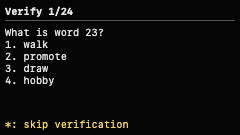
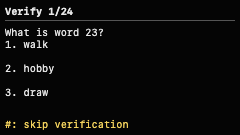
Simplify mnemonic verification quiz

diff --git a/simulator/mnemonic_wasm.js b/simulator/mnemonic_wasm.js
@@ -1,2 +1,2 @@
-async function Module(moduleArg={}){var Module=moduleArg;var ENVIRONMENT_IS_WEB=!!globalThis.window;var ENVIRONMENT_IS_WORKER=!!globalThis.WorkerGlobalScope;var ENVIRONMENT_IS_NODE=globalThis.process?.versions?.node&&globalThis.process?.type!="renderer";if(ENVIRONMENT_IS_NODE){const{createRequire}=await import("node:module");var require=createRequire(import.meta.url)}var programArgs=[];var thisProgram="./this.program";var quit_=(status,toThrow)=>{throw toThrow};var _scriptName=import.meta.url;var scriptDirectory="";function locateFile(path){if(Module["locateFile"]){return Module["locateFile"](path,scriptDirectory)}return scriptDirectory+path}var readAsync,readBinary;if(ENVIRONMENT_IS_NODE){var fs=require("node:fs");if(_scriptName.startsWith("file:")){scriptDirectory=require("node:path").dirname(require("node:url").fileURLToPath(_scriptName))+"/"}readBinary=filename=>{filename=isFileURI(filename)?new URL(filename):filename;var ret=fs.readFileSync(filename);return ret};readAsync=async(filename,binary=true)=>{filename=isFileURI(filename)?new URL(filename):filename;var ret=fs.readFileSync(filename,binary?undefined:"utf8");return ret};if(process.argv.length>1){thisProgram=process.argv[1].replace(/\\/g,"/")}programArgs=process.argv.slice(2);quit_=(status,toThrow)=>{process.exitCode=status;throw toThrow}}else if(ENVIRONMENT_IS_WEB||ENVIRONMENT_IS_WORKER){try{scriptDirectory=new URL(".",_scriptName).href}catch{}{readAsync=async url=>{var response=await fetch(url,{credentials:"same-origin"});if(response.ok){return response.arrayBuffer()}throw new Error(response.status+" : "+response.url)}}}else{}var out=console.log.bind(console);var err=console.error.bind(console);var wasmBinary;var ABORT=false;var isFileURI=filename=>filename.startsWith("file://");class EmscriptenEH{}class EmscriptenSjLj extends EmscriptenEH{}var runtimeInitialized=false;function updateMemoryViews(){var b=wasmMemory.buffer;Module["HEAPU8"]=HEAPU8=new Uint8Array(b);Module["HEAPU16"]=HEAPU16=new Uint16Array(b)}function preRun(){var preRun=Module["preRun"];if(preRun){if(typeof preRun=="function")preRun=[preRun];onPreRuns.push(...preRun)}callRuntimeCallbacks(onPreRuns)}function initRuntime(){runtimeInitialized=true;wasmExports["c"]()}function postRun(){var postRun=Module["postRun"];if(postRun){if(typeof postRun=="function")postRun=[postRun];onPostRuns.push(...postRun)}callRuntimeCallbacks(onPostRuns)}function abort(what){Module["onAbort"]?.(what);what=`Aborted(${what})`;err(what);ABORT=true;what+=". Build with -sASSERTIONS for more info.";var e=new WebAssembly.RuntimeError(what);throw e}var wasmBinaryFile;function findWasmBinary(){if(Module["locateFile"]){return locateFile("mnemonic_wasm.wasm")}return new URL("mnemonic_wasm.wasm",import.meta.url).href}function getBinarySync(file){if(readBinary){return readBinary(file)}throw"both async and sync fetching of the wasm failed"}async function getWasmBinary(binaryFile){if(!wasmBinary){try{var response=await readAsync(binaryFile);return new Uint8Array(response)}catch{}}return getBinarySync(binaryFile)}async function instantiateArrayBuffer(binaryFile,imports){try{var binary=await getWasmBinary(binaryFile);var instance=await WebAssembly.instantiate(binary,imports);return instance}catch(reason){err(`failed to asynchronously prepare wasm: ${reason}`);abort(reason)}}async function instantiateAsync(binary,binaryFile,imports){if(!binary&&!ENVIRONMENT_IS_NODE){try{var response=fetch(binaryFile,{credentials:"same-origin"});var instantiationResult=await WebAssembly.instantiateStreaming(response,imports);return instantiationResult}catch(reason){err(`wasm streaming compile failed: ${reason}`);err("falling back to ArrayBuffer instantiation")}}return instantiateArrayBuffer(binaryFile,imports)}function getWasmImports(){var imports={a:wasmImports};return imports}async function createWasm(){function receiveInstance(instance){wasmExports=instance.exports;assignWasmExports(wasmExports);updateMemoryViews();return wasmExports}function receiveInstantiationResult(result){return receiveInstance(result["instance"])}var info=getWasmImports();var instantiateWasm=Module["instantiateWasm"];if(instantiateWasm){return new Promise(resolve=>{instantiateWasm(info,inst=>resolve(receiveInstance(inst)))})}wasmBinaryFile??=findWasmBinary();var result=await instantiateAsync(wasmBinary,wasmBinaryFile,info);var exports=receiveInstantiationResult(result);return exports}class ExitStatus{name="ExitStatus";constructor(status){this.message=`Program terminated with exit(${status})`;this.status=status}}var callRuntimeCallbacks=callbacks=>{while(callbacks.length>0){callbacks.shift()(Module)}};var onPostRuns=[];var onPreRuns=[];var noExitRuntime=true;var abortOnCannotGrowMemory=requestedSize=>{abort("OOM")};var HEAPU8;var _emscripten_resize_heap=requestedSize=>{var oldSize=HEAPU8.length;requestedSize>>>=0;abortOnCannotGrowMemory(requestedSize)};var HEAPU16;{if(Module["noExitRuntime"])noExitRuntime=Module["noExitRuntime"];if(Module["print"])out=Module["print"];if(Module["printErr"])err=Module["printErr"];if(Module["arguments"])programArgs=Module["arguments"];if(Module["thisProgram"])thisProgram=Module["thisProgram"];var preInit=Module["preInit"];if(preInit){if(typeof preInit=="function")Module["preInit"]=preInit=[preInit];while(preInit.length>0){preInit.shift()()}}}var _generate_mnemonic_indexes,_mnemonic_word,_session_press,_session_reset,_session_screen,_session_required_rolls,_session_roll_count,_session_roll_at,_session_word_count,_session_word_index_at,_session_page,_session_quiz_position,_session_quiz_word_number,_session_quiz_choice_at,_session_quiz_incorrect,_session_verified,_malloc,_free,memory,__indirect_function_table,wasmMemory;function assignWasmExports(wasmExports){_generate_mnemonic_indexes=Module["_generate_mnemonic_indexes"]=wasmExports["d"];_mnemonic_word=Module["_mnemonic_word"]=wasmExports["e"];_session_press=Module["_session_press"]=wasmExports["f"];_session_reset=Module["_session_reset"]=wasmExports["g"];_session_screen=Module["_session_screen"]=wasmExports["h"];_session_required_rolls=Module["_session_required_rolls"]=wasmExports["i"];_session_roll_count=Module["_session_roll_count"]=wasmExports["j"];_session_roll_at=Module["_session_roll_at"]=wasmExports["k"];_session_word_count=Module["_session_word_count"]=wasmExports["l"];_session_word_index_at=Module["_session_word_index_at"]=wasmExports["m"];_session_page=Module["_session_page"]=wasmExports["n"];_session_quiz_position=Module["_session_quiz_position"]=wasmExports["o"];_session_quiz_word_number=Module["_session_quiz_word_number"]=wasmExports["p"];_session_quiz_choice_at=Module["_session_quiz_choice_at"]=wasmExports["q"];_session_quiz_incorrect=Module["_session_quiz_incorrect"]=wasmExports["r"];_session_verified=Module["_session_verified"]=wasmExports["s"];_malloc=Module["_malloc"]=wasmExports["t"];_free=Module["_free"]=wasmExports["u"];memory=wasmMemory=wasmExports["b"];__indirect_function_table=wasmExports["__indirect_function_table"]}var wasmImports={a:_emscripten_resize_heap};async function run(){preRun();var setStatus=Module["setStatus"];if(setStatus){setStatus("Running...");await new Promise(resolve=>setTimeout(resolve,1));setTimeout(setStatus,1,"")}if(ABORT)return;initRuntime();Module["onRuntimeInitialized"]?.();postRun()}var wasmExports;wasmExports=await createWasm();await run();
+async function Module(moduleArg={}){var Module=moduleArg;var ENVIRONMENT_IS_WEB=!!globalThis.window;var ENVIRONMENT_IS_WORKER=!!globalThis.WorkerGlobalScope;var ENVIRONMENT_IS_NODE=globalThis.process?.versions?.node&&globalThis.process?.type!="renderer";if(ENVIRONMENT_IS_NODE){const{createRequire}=await import("node:module");var require=createRequire(import.meta.url)}var programArgs=[];var thisProgram="./this.program";var quit_=(status,toThrow)=>{throw toThrow};var _scriptName=import.meta.url;var scriptDirectory="";function locateFile(path){if(Module["locateFile"]){return Module["locateFile"](path,scriptDirectory)}return scriptDirectory+path}var readAsync,readBinary;if(ENVIRONMENT_IS_NODE){var fs=require("node:fs");if(_scriptName.startsWith("file:")){scriptDirectory=require("node:path").dirname(require("node:url").fileURLToPath(_scriptName))+"/"}readBinary=filename=>{filename=isFileURI(filename)?new URL(filename):filename;var ret=fs.readFileSync(filename);return ret};readAsync=async(filename,binary=true)=>{filename=isFileURI(filename)?new URL(filename):filename;var ret=fs.readFileSync(filename,binary?undefined:"utf8");return ret};if(process.argv.length>1){thisProgram=process.argv[1].replace(/\\/g,"/")}programArgs=process.argv.slice(2);quit_=(status,toThrow)=>{process.exitCode=status;throw toThrow}}else if(ENVIRONMENT_IS_WEB||ENVIRONMENT_IS_WORKER){try{scriptDirectory=new URL(".",_scriptName).href}catch{}{readAsync=async url=>{var response=await fetch(url,{credentials:"same-origin"});if(response.ok){return response.arrayBuffer()}throw new Error(response.status+" : "+response.url)}}}else{}var out=console.log.bind(console);var err=console.error.bind(console);var wasmBinary;var ABORT=false;var isFileURI=filename=>filename.startsWith("file://");class EmscriptenEH{}class EmscriptenSjLj extends EmscriptenEH{}var runtimeInitialized=false;function updateMemoryViews(){var b=wasmMemory.buffer;Module["HEAPU8"]=HEAPU8=new Uint8Array(b);Module["HEAPU16"]=HEAPU16=new Uint16Array(b)}function preRun(){var preRun=Module["preRun"];if(preRun){if(typeof preRun=="function")preRun=[preRun];onPreRuns.push(...preRun)}callRuntimeCallbacks(onPreRuns)}function initRuntime(){runtimeInitialized=true;wasmExports["c"]()}function postRun(){var postRun=Module["postRun"];if(postRun){if(typeof postRun=="function")postRun=[postRun];onPostRuns.push(...postRun)}callRuntimeCallbacks(onPostRuns)}function abort(what){Module["onAbort"]?.(what);what=`Aborted(${what})`;err(what);ABORT=true;what+=". Build with -sASSERTIONS for more info.";var e=new WebAssembly.RuntimeError(what);throw e}var wasmBinaryFile;function findWasmBinary(){if(Module["locateFile"]){return locateFile("mnemonic_wasm.wasm")}return new URL("mnemonic_wasm.wasm",import.meta.url).href}function getBinarySync(file){if(readBinary){return readBinary(file)}throw"both async and sync fetching of the wasm failed"}async function getWasmBinary(binaryFile){if(!wasmBinary){try{var response=await readAsync(binaryFile);return new Uint8Array(response)}catch{}}return getBinarySync(binaryFile)}async function instantiateArrayBuffer(binaryFile,imports){try{var binary=await getWasmBinary(binaryFile);var instance=await WebAssembly.instantiate(binary,imports);return instance}catch(reason){err(`failed to asynchronously prepare wasm: ${reason}`);abort(reason)}}async function instantiateAsync(binary,binaryFile,imports){if(!binary&&!ENVIRONMENT_IS_NODE){try{var response=fetch(binaryFile,{credentials:"same-origin"});var instantiationResult=await WebAssembly.instantiateStreaming(response,imports);return instantiationResult}catch(reason){err(`wasm streaming compile failed: ${reason}`);err("falling back to ArrayBuffer instantiation")}}return instantiateArrayBuffer(binaryFile,imports)}function getWasmImports(){var imports={a:wasmImports};return imports}async function createWasm(){function receiveInstance(instance){wasmExports=instance.exports;assignWasmExports(wasmExports);updateMemoryViews();return wasmExports}function receiveInstantiationResult(result){return receiveInstance(result["instance"])}var info=getWasmImports();var instantiateWasm=Module["instantiateWasm"];if(instantiateWasm){return new Promise(resolve=>{instantiateWasm(info,inst=>resolve(receiveInstance(inst)))})}wasmBinaryFile??=findWasmBinary();var result=await instantiateAsync(wasmBinary,wasmBinaryFile,info);var exports=receiveInstantiationResult(result);return exports}class ExitStatus{name="ExitStatus";constructor(status){this.message=`Program terminated with exit(${status})`;this.status=status}}var callRuntimeCallbacks=callbacks=>{while(callbacks.length>0){callbacks.shift()(Module)}};var onPostRuns=[];var onPreRuns=[];var noExitRuntime=true;var abortOnCannotGrowMemory=requestedSize=>{abort("OOM")};var HEAPU8;var _emscripten_resize_heap=requestedSize=>{var oldSize=HEAPU8.length;requestedSize>>>=0;abortOnCannotGrowMemory(requestedSize)};var HEAPU16;{if(Module["noExitRuntime"])noExitRuntime=Module["noExitRuntime"];if(Module["print"])out=Module["print"];if(Module["printErr"])err=Module["printErr"];if(Module["arguments"])programArgs=Module["arguments"];if(Module["thisProgram"])thisProgram=Module["thisProgram"];var preInit=Module["preInit"];if(preInit){if(typeof preInit=="function")Module["preInit"]=preInit=[preInit];while(preInit.length>0){preInit.shift()()}}}var _generate_mnemonic_indexes,_mnemonic_word,_session_press,_session_reset,_session_screen,_session_required_rolls,_session_roll_count,_session_roll_at,_session_word_count,_session_word_index_at,_session_page,_session_quiz_position,_session_quiz_word_number,_session_quiz_choice_at,_session_quiz_incorrect,_session_quiz_incorrect_choice,_session_verified,_malloc,_free,memory,__indirect_function_table,wasmMemory;function assignWasmExports(wasmExports){_generate_mnemonic_indexes=Module["_generate_mnemonic_indexes"]=wasmExports["d"];_mnemonic_word=Module["_mnemonic_word"]=wasmExports["e"];_session_press=Module["_session_press"]=wasmExports["f"];_session_reset=Module["_session_reset"]=wasmExports["g"];_session_screen=Module["_session_screen"]=wasmExports["h"];_session_required_rolls=Module["_session_required_rolls"]=wasmExports["i"];_session_roll_count=Module["_session_roll_count"]=wasmExports["j"];_session_roll_at=Module["_session_roll_at"]=wasmExports["k"];_session_word_count=Module["_session_word_count"]=wasmExports["l"];_session_word_index_at=Module["_session_word_index_at"]=wasmExports["m"];_session_page=Module["_session_page"]=wasmExports["n"];_session_quiz_position=Module["_session_quiz_position"]=wasmExports["o"];_session_quiz_word_number=Module["_session_quiz_word_number"]=wasmExports["p"];_session_quiz_choice_at=Module["_session_quiz_choice_at"]=wasmExports["q"];_session_quiz_incorrect=Module["_session_quiz_incorrect"]=wasmExports["r"];_session_quiz_incorrect_choice=Module["_session_quiz_incorrect_choice"]=wasmExports["s"];_session_verified=Module["_session_verified"]=wasmExports["t"];_malloc=Module["_malloc"]=wasmExports["u"];_free=Module["_free"]=wasmExports["v"];memory=wasmMemory=wasmExports["b"];__indirect_function_table=wasmExports["__indirect_function_table"]}var wasmImports={a:_emscripten_resize_heap};async function run(){preRun();var setStatus=Module["setStatus"];if(setStatus){setStatus("Running...");await new Promise(resolve=>setTimeout(resolve,1));setTimeout(setStatus,1,"")}if(ABORT)return;initRuntime();Module["onRuntimeInitialized"]?.();postRun()}var wasmExports;wasmExports=await createWasm();await run();
 ;return Module}export default Module;

diff --git a/simulator/index.html b/simulator/index.html
@@ -87,10 +87,9 @@
       } else if (wasm._session_screen() === 4) {
         screen.innerHTML = `<div class="title">Verify backup?</div><div>Check every written word</div><div class="yellow footer"><span>*: skip</span><span>#: start quiz</span></div>`;
       } else if (wasm._session_screen() === 5) {
-        const choices = Array.from({length: 4}, (_, i) => `${i + 1}. ${wordFromIndex(wasm._session_quiz_choice_at(i))}`).join("<br>");
-        const incorrect = wasm._session_quiz_incorrect();
-        const quizFooter = incorrect ? `<span style="color:#ff6b6b">Incorrect. Try again.</span><span>*: skip</span>` : "*: skip verification";
-        screen.innerHTML = `<div class="title">Verify ${wasm._session_quiz_position() + 1}/${wasm._session_word_count()}</div><div>What is word ${wasm._session_quiz_word_number()}?</div>${choices}<div class="yellow footer">${quizFooter}</div>`;
+        const incorrectChoice = wasm._session_quiz_incorrect_choice();
+        const choices = Array.from({length: 3}, (_, i) => `<span style="color:${i === incorrectChoice ? "#ff6b6b" : "#e7e7e7"}">${i + 1}. ${wordFromIndex(wasm._session_quiz_choice_at(i))}${i === incorrectChoice ? "  incorrect" : ""}</span>`).join("<br>");
+        screen.innerHTML = `<div class="title">Verify ${wasm._session_quiz_position() + 1}/${wasm._session_word_count()}</div><div>What is word ${wasm._session_quiz_word_number()}?</div>${choices}<div class="yellow footer">#: skip verification</div>`;
       } else if (wasm._session_screen() === 6) {
         screen.innerHTML = `<div class="title">Skip verification?</div><div class="yellow">Your backup is untested.</div><div class="footer"><span>*: resume</span><span>#: skip</span></div>`;
       } else {

diff --git a/src/session.h b/src/session.h
@@ -63,17 +63,19 @@ class Session {
         }
         break;
       case SessionScreen::Quiz:
-        if (key >= '1' && key <= '4') {
+        if (key >= '1' && key <= '3') {
           if (quizChoices_[key - '1'] == wordIndexes_[quizOrder_[quizPosition_]]) {
             if (++quizPosition_ == wordCount_) finish(true);
             else {
               quizIncorrect_ = false;
+              quizIncorrectChoice_ = 3;
               prepareQuizChoices();
             }
           } else {
             quizIncorrect_ = true;
+            quizIncorrectChoice_ = static_cast<size_t>(key - '1');
           }
-        } else if (key == '*') {
+        } else if (key == '#') {
           skipReturnScreen_ = SessionScreen::Quiz;
           screen_ = SessionScreen::ConfirmSkipQuiz;
         }
@@ -98,8 +100,9 @@ class Session {
   size_t page() const { return page_; }
   size_t quizPosition() const { return quizPosition_; }
   size_t quizWordNumber() const { return quizPosition_ < wordCount_ ? quizOrder_[quizPosition_] + 1 : 0; }
-  uint16_t quizChoiceAt(size_t index) const { return index < 4 ? quizChoices_[index] : 0; }
+  uint16_t quizChoiceAt(size_t index) const { return index < 3 ? quizChoices_[index] : 0; }
   bool quizIncorrect() const { return quizIncorrect_; }
+  size_t quizIncorrectChoice() const { return quizIncorrectChoice_; }
   bool verified() const { return verified_; }
 
  private:
@@ -126,11 +129,12 @@ class Session {
     }
     quizPosition_ = 0;
     quizIncorrect_ = false;
+    quizIncorrectChoice_ = 3;
   }
 
   void prepareQuizChoices() {
     quizChoices_[0] = wordIndexes_[quizOrder_[quizPosition_]];
-    for (size_t choice = 1; choice < 4; ++choice) {
+    for (size_t choice = 1; choice < 3; ++choice) {
       uint16_t candidate;
       bool duplicate;
       do {
@@ -142,7 +146,7 @@ class Session {
       } while (duplicate);
       quizChoices_[choice] = candidate;
     }
-    for (size_t i = 3; i > 0; --i) {
+    for (size_t i = 2; i > 0; --i) {
       const size_t swapWith = nextQuizValue() % (i + 1);
       const uint16_t temporary = quizChoices_[i];
       quizChoices_[i] = quizChoices_[swapWith];
@@ -172,6 +176,7 @@ class Session {
     rollCount_ = requiredRolls_ = wordCount_ = page_ = quizPosition_ = 0;
     quizRandomState_ = 0;
     quizIncorrect_ = verified_ = false;
+    quizIncorrectChoice_ = 3;
   }
 
   SessionScreen screen_;
@@ -181,8 +186,9 @@ class Session {
   uint16_t wordIndexes_[24];
   size_t wordCount_, page_;
   size_t quizOrder_[24];
-  uint16_t quizChoices_[4];
+  uint16_t quizChoices_[3];
   size_t quizPosition_;
   uint32_t quizRandomState_;
   bool quizIncorrect_, verified_;
+  size_t quizIncorrectChoice_;
 };

diff --git a/tests/test_session.cpp b/tests/test_session.cpp
@@ -48,18 +48,18 @@ int main() {
 
   const uint16_t answer = session.wordIndexAt(session.quizWordNumber() - 1);
   size_t answerChoices = 0;
-  for (size_t i = 0; i < 4; ++i) answerChoices += session.quizChoiceAt(i) == answer;
+  for (size_t i = 0; i < 3; ++i) answerChoices += session.quizChoiceAt(i) == answer;
   assert(answerChoices == 1);
   session.press('9');
   assert(!session.quizIncorrect());
-  for (size_t i = 0; i < 4; ++i) {
+  for (size_t i = 0; i < 3; ++i) {
     if (session.quizChoiceAt(i) != answer) {
       session.press(static_cast<char>('1' + i));
       break;
     }
   }
   assert(session.quizIncorrect());
-  session.press('*');
+  session.press('#');
   session.press('#');
   assert(session.screen() == SessionScreen::ClearWords && !session.verified());
   session.press('#');
@@ -72,7 +72,7 @@ int main() {
   session.press('#');
   for (size_t question = 0; question < 12; ++question) {
     const uint16_t correct = session.wordIndexAt(session.quizWordNumber() - 1);
-    for (size_t i = 0; i < 4; ++i) {
+    for (size_t i = 0; i < 3; ++i) {
       if (session.quizChoiceAt(i) == correct) {
         session.press(static_cast<char>('1' + i));
         break;

diff --git a/tests/test_mnemonic.cpp b/tests/test_mnemonic.cpp
@@ -42,6 +42,14 @@ int main() {
   const char* expected24KnownThree[] = {"lizard", "broken", "love", "tired", "depend", "eyebrow", "excess", "lonely", "advance", "father", "various", "cram", "ignore", "panic", "feed", "plunge", "miss", "regret", "boring", "unique", "galaxy", "fan", "detail", "fly"};
   assertMnemonic("222222222222222222222222222222222222222222222555555555555555555555555555555555555555555555555555556", expected24KnownThree, 24);
 
+  // Krux test_dice_rolls.py: 99 D6 rolls, all face 1.
+  const char* expected24Krux[] = {"wheel", "erase", "puppy", "pistol", "chapter", "accuse", "carpet", "drop", "quote", "final", "attend", "near", "scrap", "satisfy", "limit", "style", "crunch", "person", "south", "inspire", "lunch", "meadow", "enact", "tattoo"};
+  char ninetyNineOnes[100];
+  memset(ninetyNineOnes, '1', 99);
+  ninetyNineOnes[99] = '\0';
+  assertMnemonic(ninetyNineOnes, expected24Krux, 24);
+  secureClear(ninetyNineOnes, sizeof(ninetyNineOnes));
+
   uint16_t indexes[24] = {};
   size_t count = 0;
   assert(!generateMnemonicIndexes("123456", 6, indexes, count));

diff --git a/simulator/mnemonic_wasm.cpp b/simulator/mnemonic_wasm.cpp
@@ -34,5 +34,6 @@ int session_quiz_position() { return static_cast<int>(session.quizPosition()); }
 int session_quiz_word_number() { return static_cast<int>(session.quizWordNumber()); }
 int session_quiz_choice_at(int index) { return index >= 0 ? session.quizChoiceAt(static_cast<size_t>(index)) : 0; }
 int session_quiz_incorrect() { return session.quizIncorrect(); }
+int session_quiz_incorrect_choice() { return static_cast<int>(session.quizIncorrectChoice()); }
 int session_verified() { return session.verified(); }
 }

diff --git a/README.md b/README.md
@@ -63,7 +63,7 @@ Each mnemonic word is shown individually in a large font. `*` shows the previous
 
 **Verify backup**
 
-Each of the 12 or 24 words is tested in shuffled order. Select one of four choices with `1` through `4`. `*` opens the skip confirmation; there, `*` resumes verification and `#` skips it. After completion or a confirmed skip, `#` clears sensitive memory and returns to the main menu.
+Each of the 12 or 24 words is tested in shuffled order. Select one of three choices with `1` through `3`. `#` opens the skip confirmation; there, `*` resumes verification and `#` skips it. After completion or a confirmed skip, `#` clears sensitive memory and returns to the main menu.
 
 ## Build
 
@@ -86,6 +86,7 @@ The test suite checks these public compatibility vectors:
 
 - Three 50-roll SeedSigner vectors: a mixed sequence, all `1`s, and all `6`s.
 - Three known 99-roll SeedSigner vectors.
+- A 99-roll all-`1` vector published by [Krux](https://github.com/selfcustody/krux/blob/main/tests/pages/new_mnemonic/test_dice_rolls.py).
 - The public 99-roll test sequence and mnemonic from [Why Dice-Only Coldcard Seeds Were Unaffected by the RNG Bug](https://schjonhaug.dev/articles/why-dice-only-coldcard-seeds-were-unaffected-by-the-rng-bug/), independently checked on SeedSigner and Coldcard.
 
 For an independent check, run SeedSigner locally or use an offline copy of [Ian Coleman's BIP39 tool](https://github.com/iancoleman/bip39) with entropy interpreted as `Base 10 [0-9]` or `Hex [0-9A-F]`, not `Dice [1-6]`.
